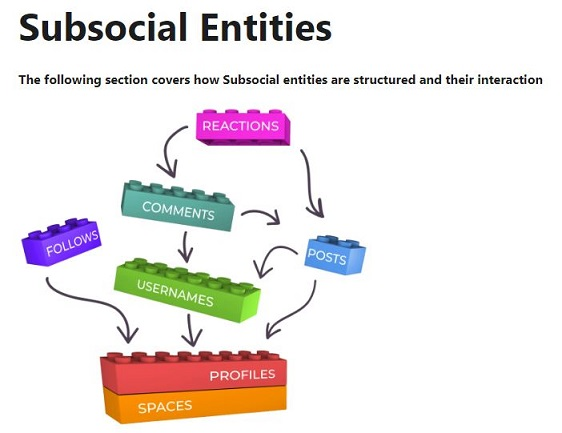
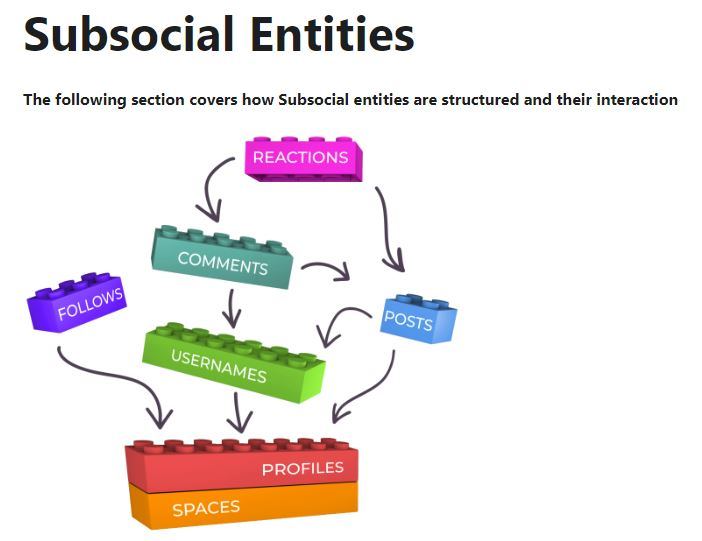
GITBOOK-454: team infos

diff --git a/content/5.regulations/networks/privacy.md b/content/5.regulations/networks/privacy.md
@@ -22,7 +22,7 @@ Other solutions exist to help prominent network entities anchor their organisati
 
 Regulators have long advocated for caution when interacting with public ledgers, due to [the pseudonymous nature of blockchain networks operations](https://www.nortonrosefulbright.com/en/knowledge/publications/c5a7c134/anonymous-no-more-blockchain-analytics-in-the-courts). This is because transactions are permanently available and can be used to link individuals with their public addresses. Nevertheless, they acknowledge that Decentralised Identity protocols can contribute to compliant authentication procedures in the digital realm, which could support the onboarding of financially-excluded population (also called "the unbanked") into financial services. Another important use case for Decentralised identities could emerge to facilitate individuals' access to digital assets in the context of inheritance. &#x20;
 
-<figure><img src="../../../.gitbook/assets/R_NSubsocial (1).JPG" alt="A webpage of Subsocial network indicating the building blocks of its SDK."><figcaption><p>Overview of <a href="https://app.subsocial.network/dd">Subsocial</a> SDK's building blocks that contribute to defining user profiles within the network.</p></figcaption></figure>
+<figure><img src="../../../.gitbook/assets/R_NSubsocial.JPG" alt="A webpage of Subsocial network indicating the building blocks of its SDK."><figcaption><p>Overview of <a href="https://app.subsocial.network/dd">Subsocial</a> SDK's building blocks that contribute to defining user profiles within the network.</p></figcaption></figure>
 
 ### Privacy-preserving Protocols&#x20;
 

diff --git a/about/our-team-members.md b/about/our-team-members.md
@@ -1,20 +1,20 @@
 ---
 description: A list of team members responsible for the daily operations of Dot.alert().
-cover: ../.gitbook/assets/DotTeamMembers03.png
+cover: ../.gitbook/assets/DotTeamMembers02.png
 coverY: 0
 ---
 
 # Our Team Members
 
-## Project Manager:
+## Project manager:
 
 [_Abdulaziz K_](https://twitter.com/akdatti94)
 
 
 
-### SEO officer:
+## Community manager:
 
-_Moshood S_
+[_Onyinye M_](https://twitter.com/ynnx\_\_\_)
 
 
 
@@ -24,7 +24,11 @@ _Moshood S_
 
 [_Judge L_](https://twitter.com/Grizz375)
 
-[_Onyinye M_](https://twitter.com/ynnx\_\_\_)
+
+
+### SEO:
+
+_Moshood S_
 
 
 

diff --git a/community/jobs.md b/community/jobs.md
@@ -1,6 +1,6 @@
 ---
 description: A list of job positions available at Dot.alert().
-cover: ../.gitbook/assets/DotJobs03.png
+cover: ../.gitbook/assets/DotJobs02.png
 coverY: 0
 ---
 
@@ -12,7 +12,7 @@ coverY: 0
 
 ### Ad hoc roles:
 
-_Positions:_ 2 Promoters.
+_Positions:_ 1 Promoter.
 
 _Requirements:_ Involvement in diverse crypto-related communities on several social media platforms (i.e Facebook, LinkedIn, WhatsApp, WeChat, KakaoTalk, etc.); Good communication skills; Ability to create engaging and precise social media content; Good standing in **online communities based in Europe or Asia.**
 

diff --git a/about/our-contributors.md b/about/our-contributors.md
@@ -1,6 +1,6 @@
 ---
 description: A list of contributors responsible for content creation at Dot.alert().
-cover: ../.gitbook/assets/DotContributors03.png
+cover: ../.gitbook/assets/DotContributors02.png
 coverY: 0
 ---
 
@@ -30,13 +30,13 @@ _Shashank R_
 
 
 
-## **Fundraiser(s):**
+## **Fundraisers:**
 
 _<mark style="background-color:blue;">Those who fund our developments.</mark>_
 
-The Gitcoin Programme (April 2023 Beta round)
+Gitcoin Program (April 2023 Beta round)
 
-The Polkadot Treasury (October 2022 - March 2023)
+Polkadot Treasury (October 2022 - March 2023)
 
 
 
